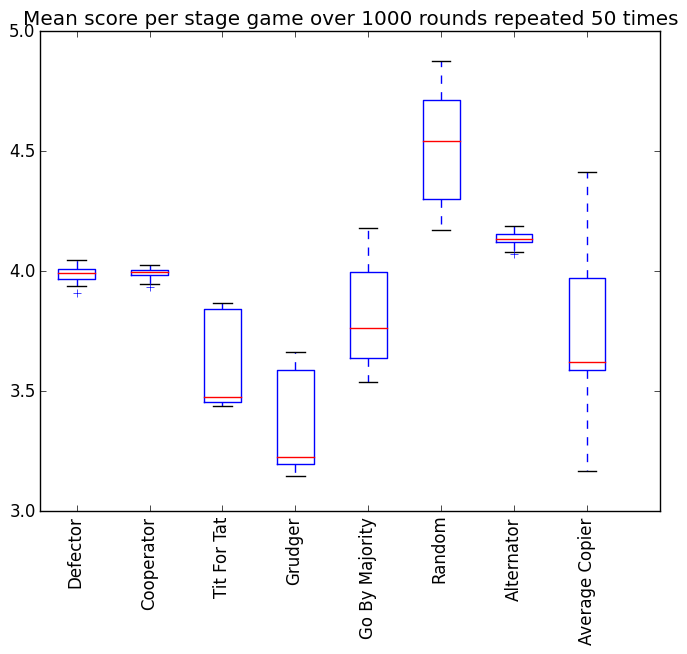
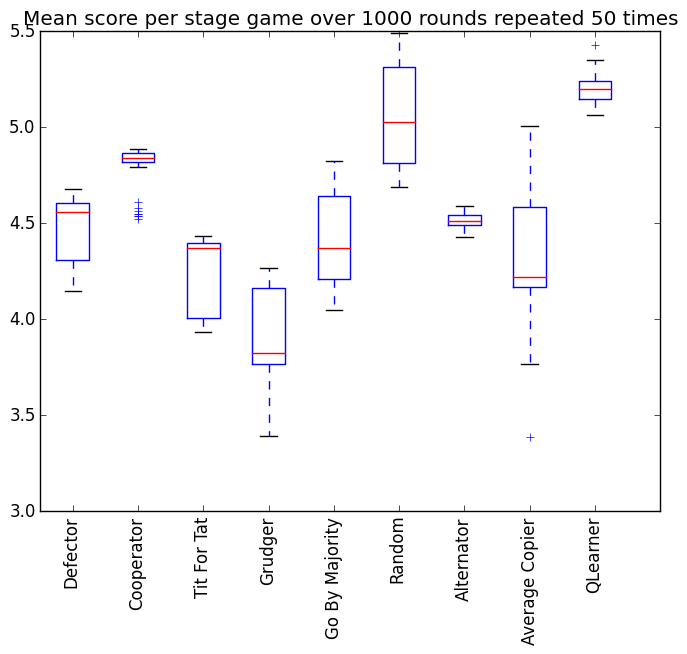
things

diff --git a/axelrod/strategies/__init__.py b/axelrod/strategies/__init__.py
@@ -6,6 +6,7 @@ from titfortat import *
 from gobymajority import *
 from alternator import *
 from averagecopier import *
+from qlearner import *
 
 
 strategies = [
@@ -17,4 +18,5 @@ strategies = [
         Random,
         Alternator,
         AverageCopier,
+        QLearner,
         ]
